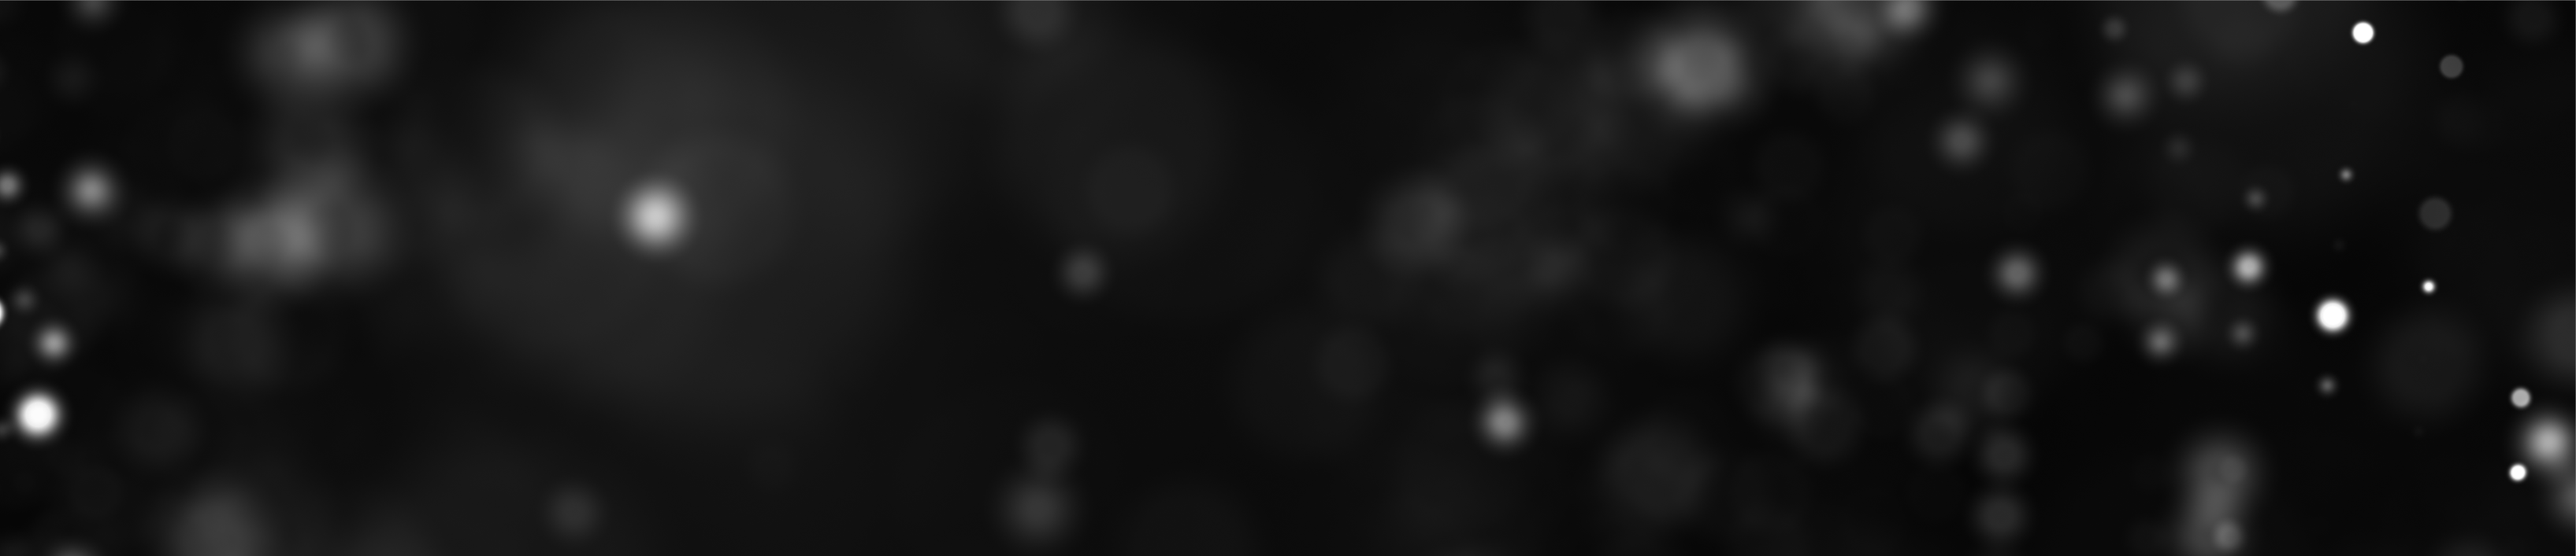
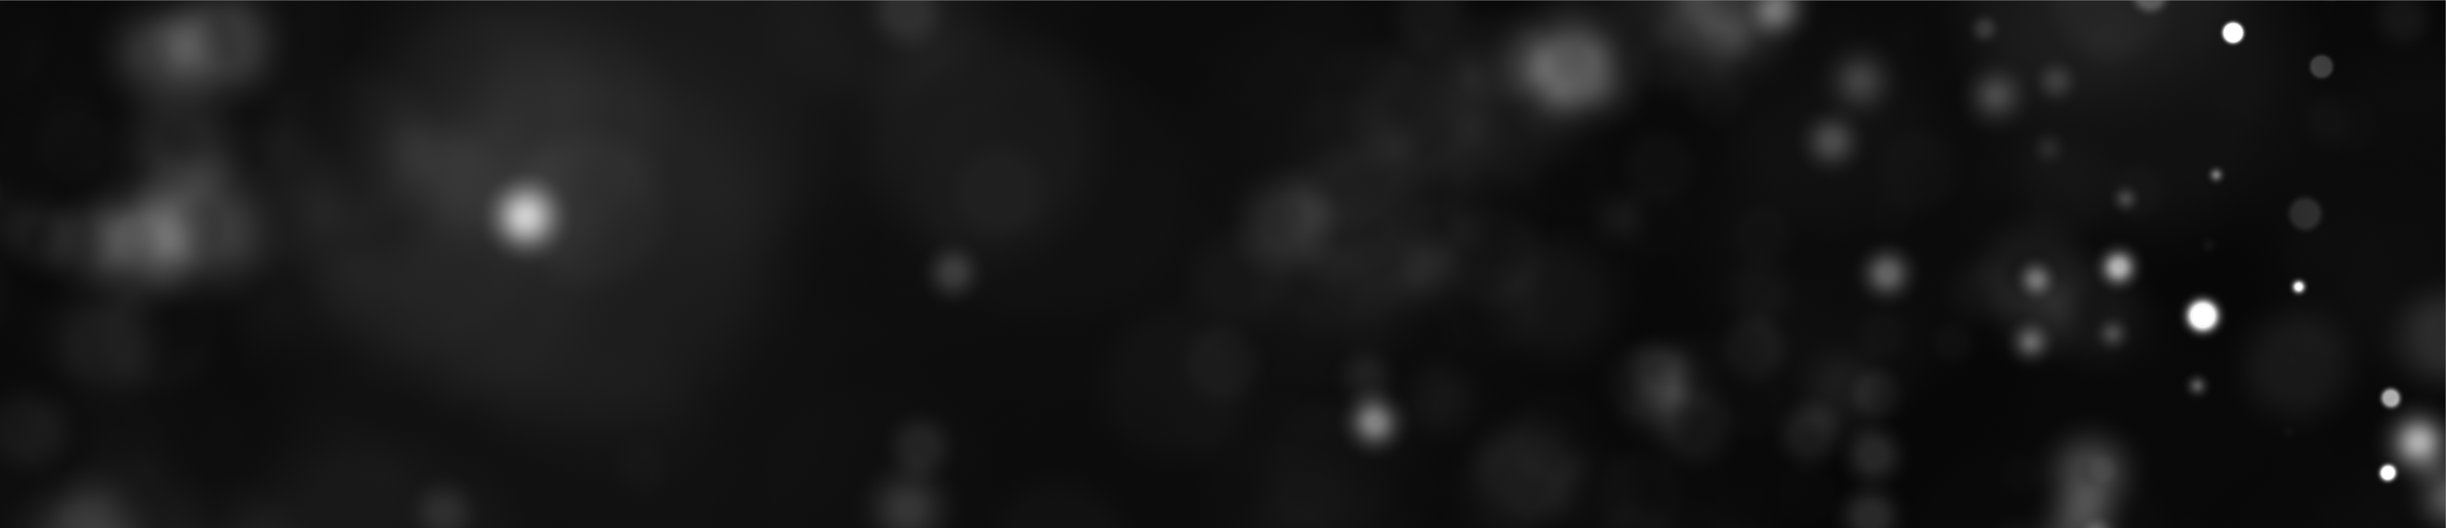
see prev

diff --git a/_includes/css/grayscale.css b/_includes/css/grayscale.css
@@ -138,7 +138,7 @@ a:focus {
     padding: 100px 0;
     text-align: center;
     color: #fff;
-    background: url(/img/intro-bg.png) no-repeat bottom center scroll;
+    background: url(/img/intro-bg.jpg) no-repeat bottom center scroll;
     background-color: {{ site.color.primary-dark }};
     -webkit-background-size: cover;
     -moz-background-size: cover;
@@ -256,7 +256,7 @@ a:focus {
     width: 100%;
     padding: 50px 0;
     color: #fff;
-    background: url(/img/portfolio-bg.png) no-repeat center center scroll;
+    background: url(/img/portfolio-bg.jpg) no-repeat center center scroll;
     background-color: {{ site.color.primary-dark }};
     -webkit-background-size: cover;
     -moz-background-size: cover;
